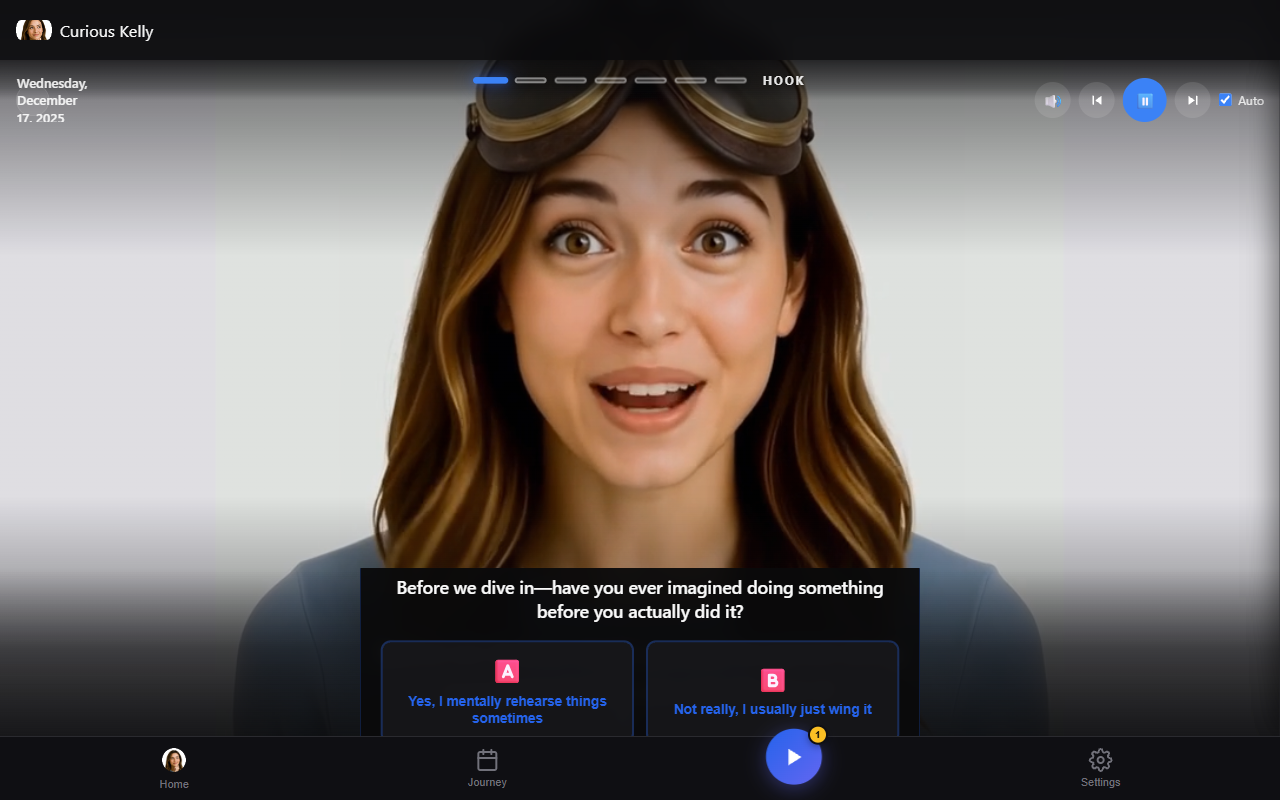
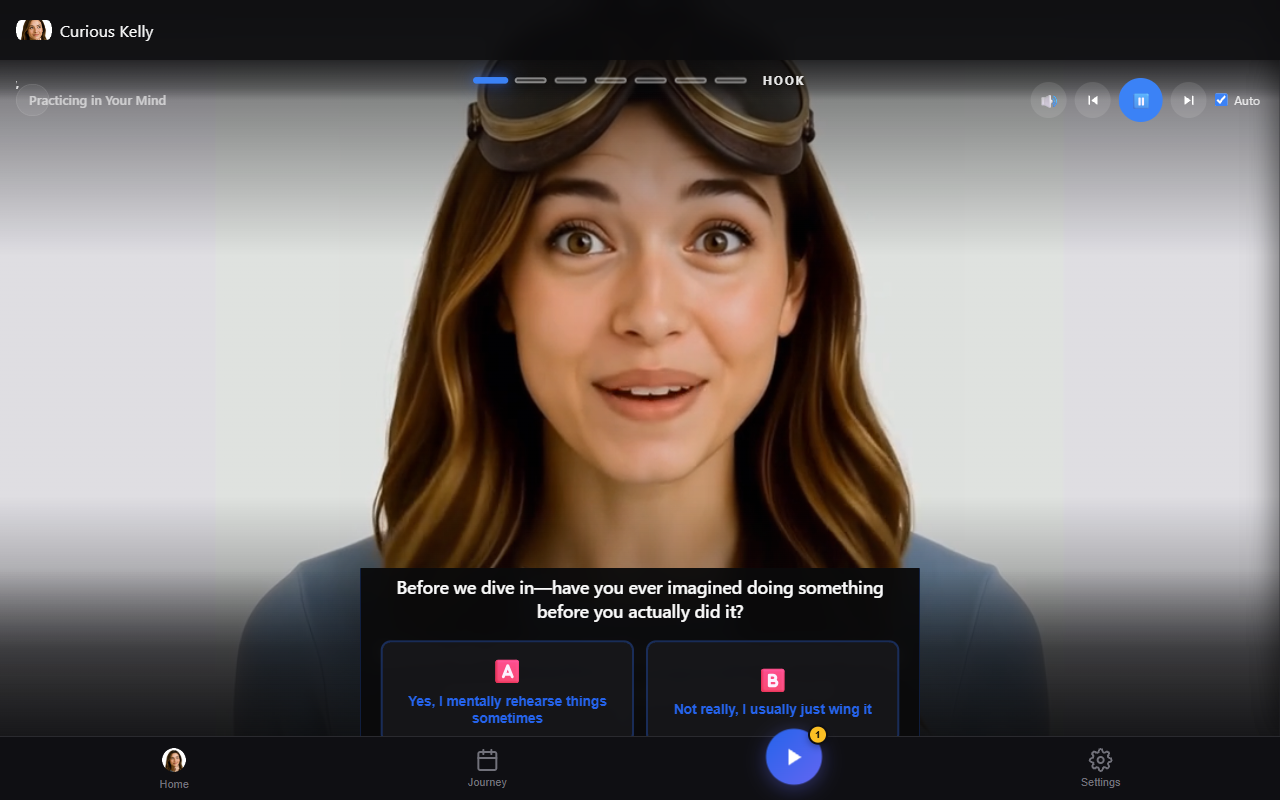
fix: UI polish - playback controls padding, stat-card sizing, day-badge topic

diff --git a/scripts/seed-visual-variants.ts b/scripts/seed-visual-variants.ts
@@ -364,30 +364,36 @@ async function uploadAndRegister(
 
   const publicUrl = urlData.publicUrl;
 
+  // Build insert object - only include columns that exist
+  const insertData: Record<string, any> = {
+    content_hash: contentHash,
+    day_number: dayNumber,
+    phase,
+    topic,
+    visual_type: 'scene',
+    age_group: 'all',
+    style: style,
+    storage_path: storagePath,
+    public_url: publicUrl,
+    format: 'png',
+    prompt_used: prompt.substring(0, 5000),
+    model_used: CONFIG.MODEL,
+    generation_params: { 
+      aspectRatio: CONFIG.ASPECT_RATIO, 
+      style,
+      complexity: styleConfig.complexity,
+      includesText: styleConfig.includesText 
+    },
+    estimated_cost: CONFIG.COST_PER_IMAGE,
+    generated_by: null,
+    generated_by_display_name: 'Curious Kelly Team',
+    generation_source: 'seed',
+    status: 'active'
+  };
+
   const { error: insertError } = await supabase
     .from('visual_commons')
-    .upsert({
-      content_hash: contentHash,
-      day_number: dayNumber,
-      phase,
-      topic,
-      visual_type: 'scene',
-      age_group: 'all',
-      style: style,
-      complexity: styleConfig.complexity,
-      includes_text: styleConfig.includesText,
-      storage_path: storagePath,
-      public_url: publicUrl,
-      format: 'png',
-      prompt_used: prompt.substring(0, 5000),
-      model_used: CONFIG.MODEL,
-      generation_params: { aspectRatio: CONFIG.ASPECT_RATIO, style },
-      estimated_cost: CONFIG.COST_PER_IMAGE,
-      generated_by: null,
-      generated_by_display_name: 'Curious Kelly Team',
-      generation_source: 'seed',
-      status: 'active'
-    }, { onConflict: 'content_hash' });
+    .upsert(insertData, { onConflict: 'content_hash' });
 
   if (insertError) {
     console.error('Insert error:', insertError.message);

diff --git a/scripts/heygen-get-voices.ts b/scripts/heygen-get-voices.ts
@@ -1,0 +1,40 @@
+#!/usr/bin/env npx tsx
+import 'dotenv/config';
+
+async function main() {
+  const res = await fetch('https://api.heygen.com/v2/voices', {
+    headers: { 
+      'X-Api-Key': process.env.HEYGEN_API_KEY!,
+      'Accept': 'application/json'
+    }
+  });
+  
+  const data = await res.json();
+  
+  if (!res.ok) {
+    console.error('Error:', data);
+    return;
+  }
+  
+  const voices = data.data?.voices || [];
+  console.log(`Found ${voices.length} voices\n`);
+  
+  // Find English female voices
+  const englishFemale = voices.filter((v: any) => 
+    v.language?.toLowerCase().includes('english') && 
+    v.gender?.toLowerCase() === 'female'
+  ).slice(0, 10);
+  
+  console.log('English Female Voices (first 10):');
+  englishFemale.forEach((v: any) => {
+    console.log(`  ${v.voice_id} - ${v.name}`);
+  });
+  
+  // Also show first few voices regardless of language
+  console.log('\nAll voices (first 5):');
+  voices.slice(0, 5).forEach((v: any) => {
+    console.log(`  ${v.voice_id} - ${v.name} (${v.language}, ${v.gender})`);
+  });
+}
+
+main().catch(console.error);

diff --git a/public/learn.html b/public/learn.html
@@ -345,6 +345,7 @@
       align-items: center;
       gap: 0.5rem;
       margin-left: auto;
+      padding-right: 4px;
     }
 
     /* Keep existing header-btn style globally; tune sizes only in playback cluster */
@@ -787,9 +788,6 @@
     
     .day-badge .topic {
       color: rgba(255,255,255,0.6);
-      max-width: 300px;
-      overflow: hidden;
-      text-overflow: ellipsis;
       white-space: nowrap;
     }
     
@@ -4022,11 +4020,11 @@
     .stat-card {
       flex: 1;
       background: var(--bg-card);
-      padding: 16px;
+      padding: 12px 8px;
       border-radius: 16px;
       text-align: center;
       overflow: visible;
-      min-width: 70px;
+      min-width: max-content;
     }
     
     .stat-card .value {
@@ -4036,13 +4034,13 @@
     }
     
     .stat-card .label {
-      font-size: 9px;
+      font-size: 8px;
       text-transform: uppercase;
-      letter-spacing: 0.3px;
+      letter-spacing: 0.2px;
       opacity: 0.6;
       margin-top: 4px;
       white-space: nowrap;
-      overflow: visible;
+      min-width: max-content;
     }
     
     .view-toggle {

diff --git a/scripts/heygen-multi-motion-test.ts b/scripts/heygen-multi-motion-test.ts
@@ -55,7 +55,7 @@ async function generateMultiSceneVideo(): Promise<string | null> {
         voice: {
           type: 'text',
           input_text: SCRIPT_PART_1,
-          voice_id: '2aceb41e9a6b4b77a36be5eb72f56a59', // HeyGen English female
+          voice_id: '0015ce4f932b405b9fc3a5e2f5e92c46', // Kelly voice (audio-kelly2.mp3)
           speed: 1.0,
         },
         background: {
@@ -72,7 +72,7 @@ async function generateMultiSceneVideo(): Promise<string | null> {
         voice: {
           type: 'text',
           input_text: SCRIPT_PART_2,
-          voice_id: '2aceb41e9a6b4b77a36be5eb72f56a59',
+          voice_id: '0015ce4f932b405b9fc3a5e2f5e92c46', // Kelly voice
           speed: 1.0,
         },
         background: {
